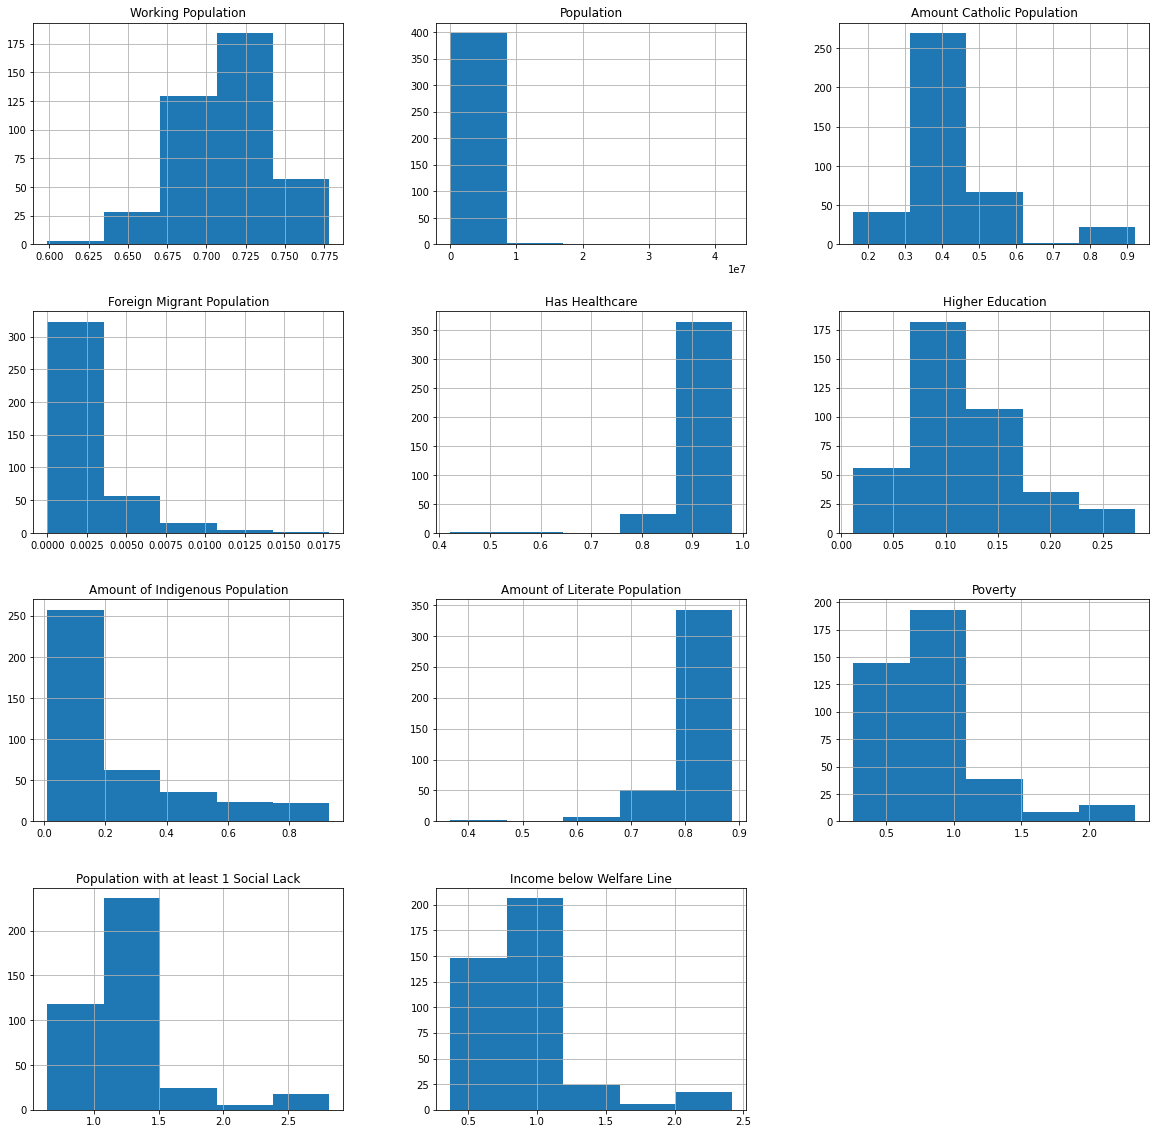
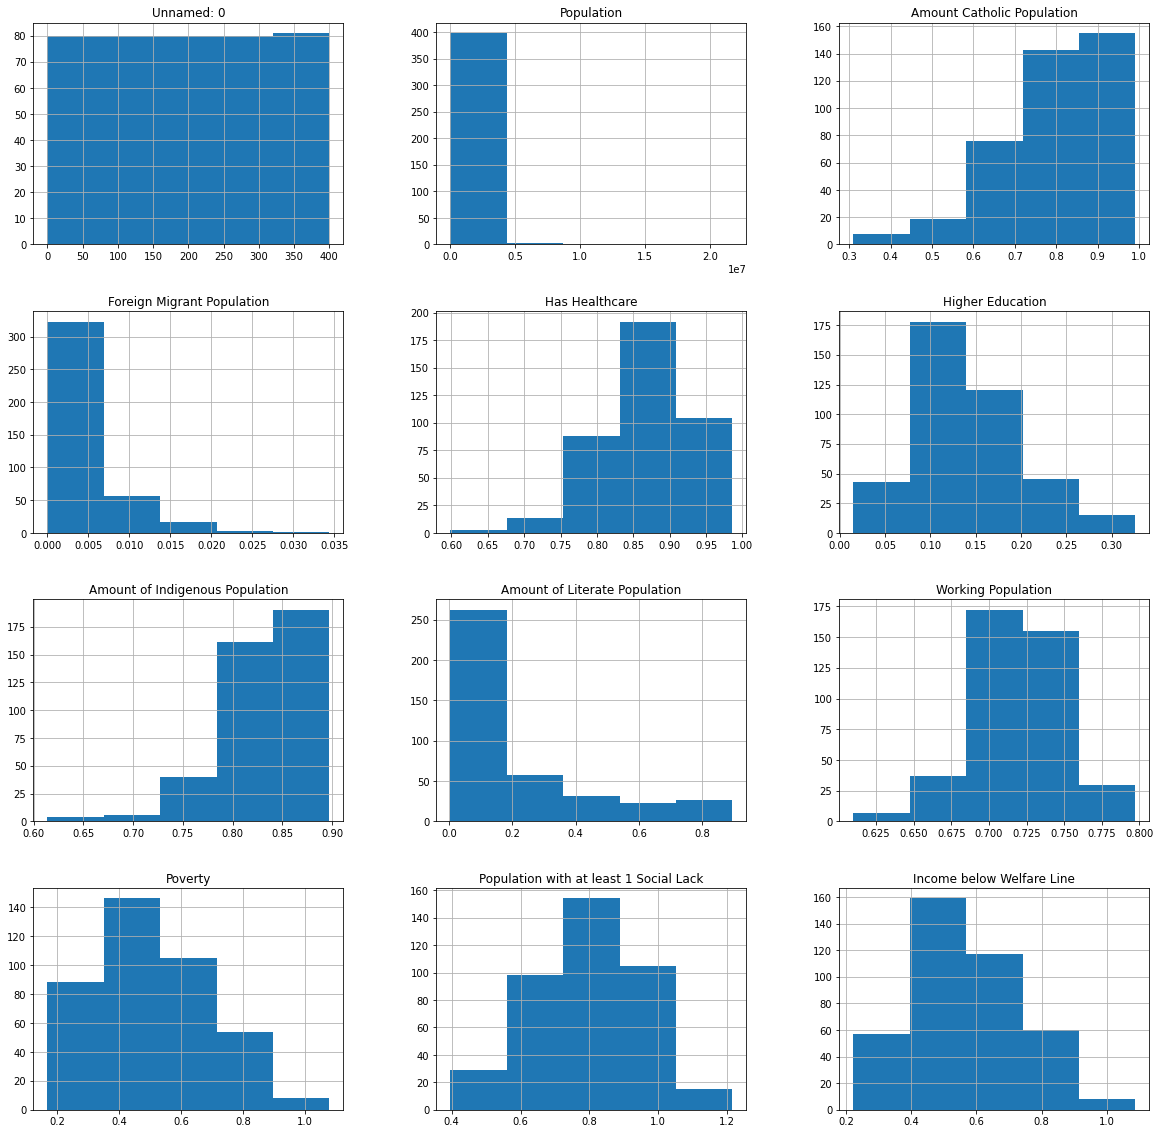
normalized data

diff --git a/main.py b/main.py
@@ -128,3 +128,12 @@ df.corr()
 df.hist(figsize=(20,20), bins=5)
 
 # %%
+#cleaning the data from outliers.
+#Outliers are those values above 1. Since the dataset was normalize, 1 =100%
+for col in dfs_columns:
+    
+    df[col].mask(df[col] >= 1, 0, inplace=True)
+df
+# %%
+df.hist(figsize=(20,20), bins=5)
+# %%

diff --git a/readme.md b/readme.md
@@ -1,7 +1,12 @@
+# Report
+Latex in overleaf:
+https://www.overleaf.com/project/653427d2b80f530a00a9adc4
+
 # GIT LFS FOR DATA SETS
 Due to the size of the involved data sets, it is recommended to work with Git large data sets library. You can install it
 by running the following command 'git lfs install' and keeping track of the .gitattributes file.
 For further information, check https://git-lfs.com/
+
 
 
 # Description
